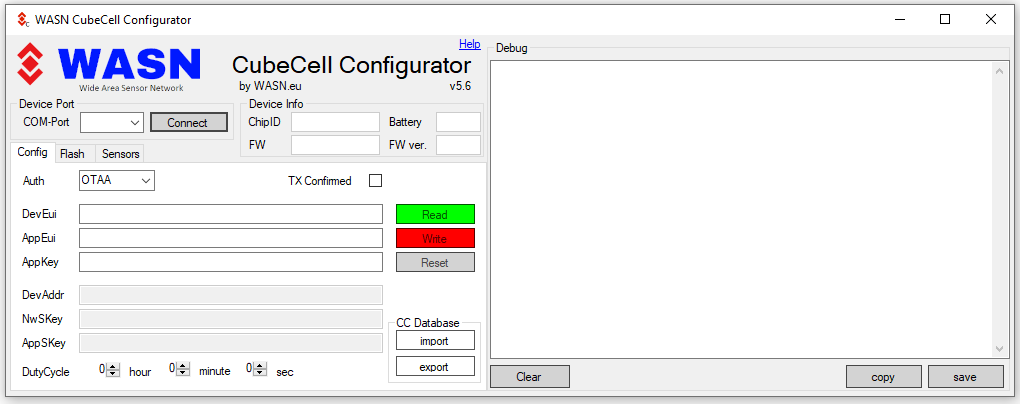
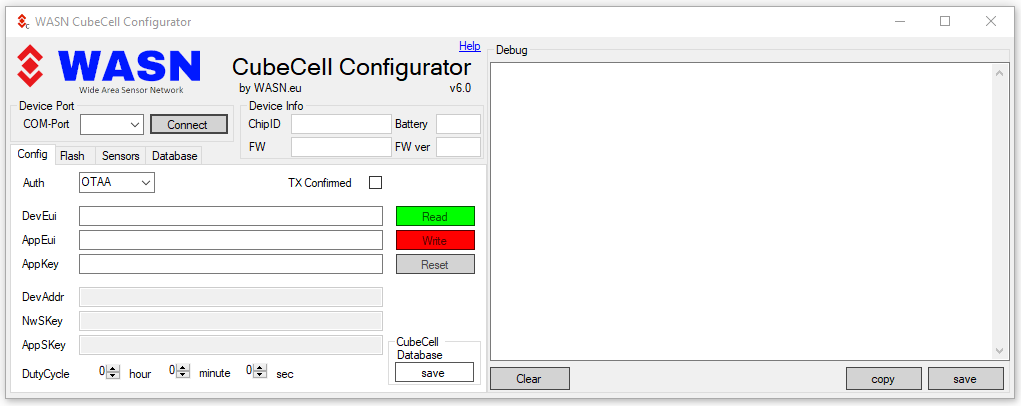
readme.md updateb for Configurator 6.0

diff --git a/README.md b/README.md
@@ -157,6 +157,7 @@ OneWire Sensors will be supported on GPIO1. Right now the CubeCell hangs sometim
 	- Set a Dutycycle (Sleeptime between 2 sends).
     - by default all uplinks are unconfirmed, if you need confirmed uplinks please enable the TX confirmed checkbox
   	- Click on Write.
+    - to save the data to the database click on save in the CubeCell Database area.
   - The keys will be saved in the CubeCell device and the device will reboot
   - In the debug text box you should see the following:
 
@@ -172,6 +173,15 @@ OneWire Sensors will be supported on GPIO1. Right now the CubeCell hangs sometim
 	
   - Now you should see the Join Requests in your TTN Application and short after that data comming in.
 
+## Use the CubeCell Database
+
+<p align="center">
+<img src="https://github.com/wasn-eu/CubeCell_Getting_Started/raw/master/images/Configurator_database.PNG" width=750>  
+</p>
+
+Search for the dataset you would like to use for the connected CubeCell and click on use.
+The data can than be written to the CubeCell by clicking on write in the config tab.
+ 
 
 ## The Things Network decoder
 
